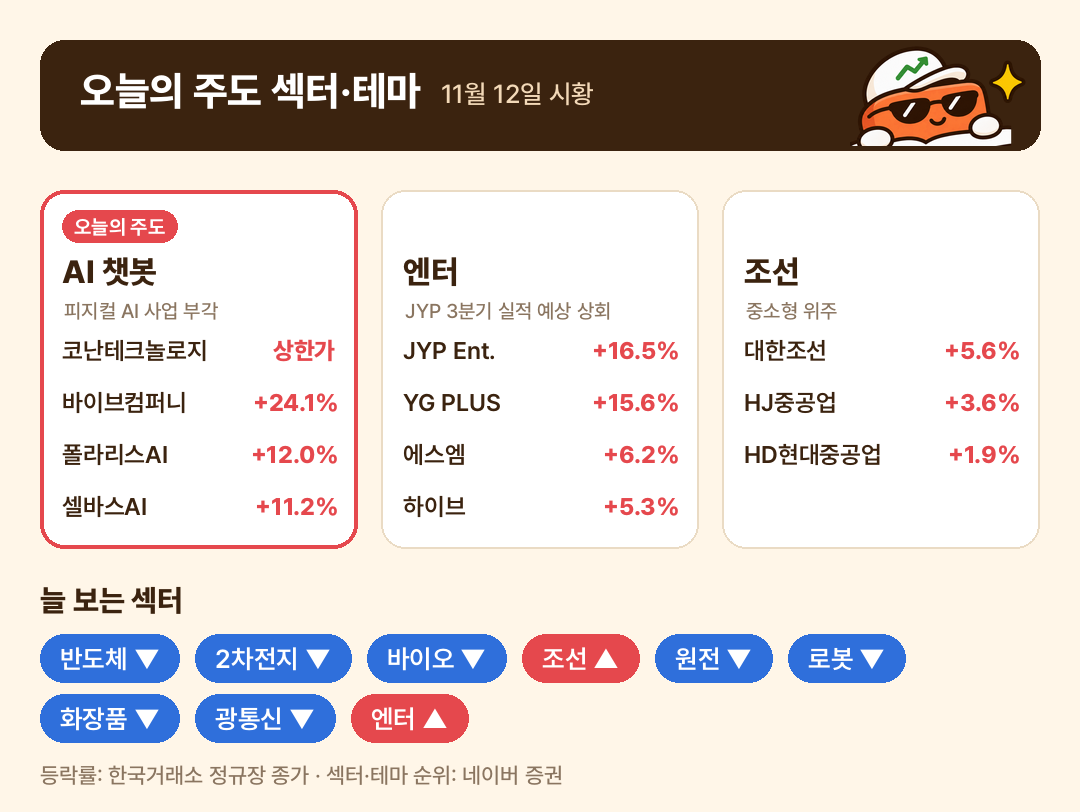
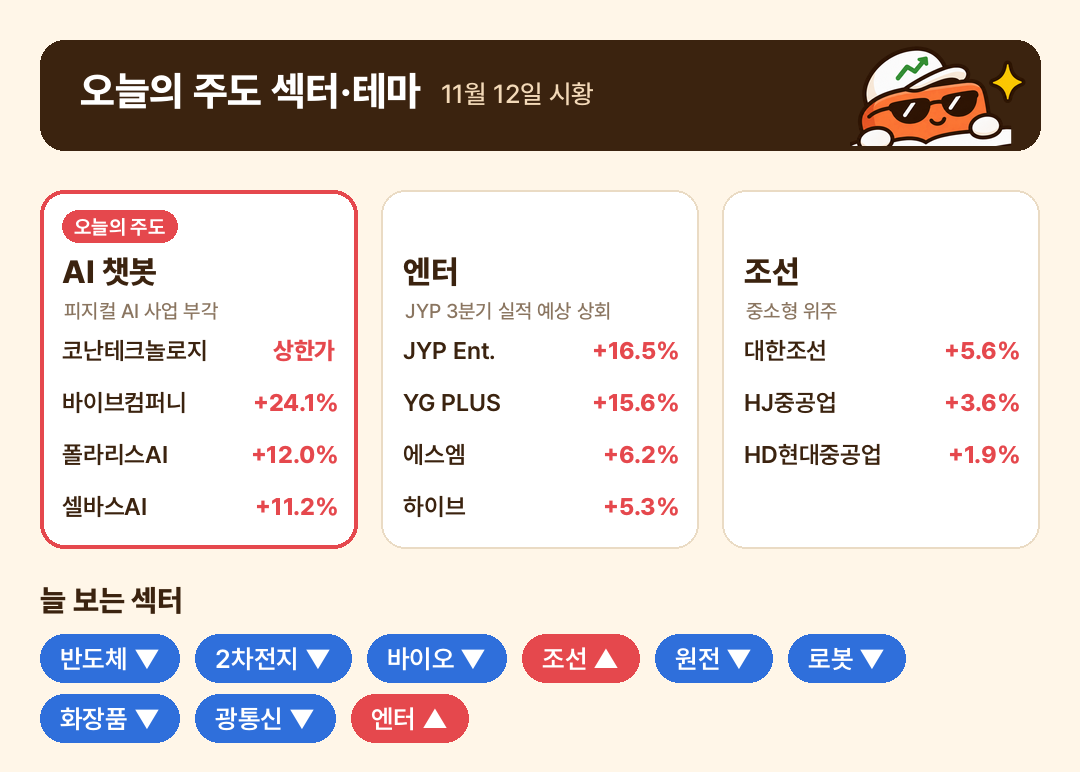
Add daily numbers card and drop source line from sector card

diff --git a/scripts/make_market_cards.py b/scripts/make_market_cards.py
@@ -182,6 +182,55 @@ def trend_card(c, out):
     img.convert("RGB").save(f"{out}/card_trend.png")
 
 
+def numbers_card(c, out):
+    """데일리: 지수 두 칸 + 투자자별 순매수(억 원) + 거래대금."""
+    t = c["today"]
+    H = 1040
+    img = Image.new("RGBA", (W, H), BEIGE); d = ImageDraw.Draw(img)
+    header(d, img, "오늘 숫자", c["name"], W)
+
+    bw, y = (W - 120) // 2, 190
+    for i, ix in enumerate(t["indices"]):
+        x = 40 + i * (bw + 40)
+        rr(d, (x, y, x + bw, y + 230), 24, fill=WHITE, outline=LINE, width=3)
+        d.text((x + 36, y + 28), ix["name"], font=F("ExtraBold", 34), fill=BROWN)
+        d.text((x + 36, y + 78), pct(ix["day"]), font=F("Black", 72), fill=color(ix["day"]))
+        d.text((x + 36, y + 170), f"종가 {ix['close']}", font=F("SemiBold", 28), fill=BROWN)
+
+    # 투자자별 순매수: 행은 개인·외국인·기관, 열은 코스피·코스닥
+    y = 460
+    d.text((40, y), "누가 사고 팔았나 (억 원)", font=F("ExtraBold", 32), fill=BROWN)
+    y += 60
+    rr(d, (40, y, W - 40, y + 300), 24, fill=WHITE, outline=LINE, width=2)
+    cols = [x["name"] for x in t["indices"]]
+    cx = [560, 860]
+    for j, name in enumerate(cols):
+        tw = d.textlength(name, font=F("SemiBold", 26))
+        d.text((cx[j] - tw / 2, y + 22), name, font=F("SemiBold", 26), fill=MUTED)
+    for k, who in enumerate(("개인", "외국인", "기관")):
+        ry = y + 80 + k * 70
+        d.text((80, ry), who, font=F("ExtraBold", 34), fill=BROWN)
+        for j, name in enumerate(cols):
+            v = t["flows"][name][k]
+            label = f"{v:+,}"
+            tw = d.textlength(label, font=F("ExtraBold", 36))
+            d.text((cx[j] - tw / 2, ry - 2), label, font=F("ExtraBold", 36), fill=color(v))
+
+    # 거래대금: 시장별 칩, 전일 대비가 있으면 함께
+    y = 862
+    d.text((40, y), "거래대금", font=F("ExtraBold", 32), fill=BROWN)
+    x, y = 40, y + 60
+    for name, value, change in t["value"]:
+        label = f"{name} {value}" + (f" ({change})" if change else "")
+        tw = d.textlength(label, font=F("SemiBold", 30))
+        if x + tw + 48 > W - 40:
+            x, y = 40, y + 72
+        rr(d, (x, y, x + tw + 48, y + 60), 30, fill=BROWN)
+        d.text((x + 24, y + 12), label, font=F("SemiBold", 30), fill=WHITE)
+        x += tw + 64
+    img.convert("RGB").save(f"{out}/card_numbers.png")
+
+
 def sector_card(c, out, cols=3):
     """데일리: 섹터·테마 칸을 cols열 격자로(칸마다 이름·이유 + 대장 종목 3~4개), 아래에 늘 보는 섹터 칩.
 
@@ -191,7 +240,7 @@ def sector_card(c, out, cols=3):
     nrows = -(-len(c["sectors"]) // cols)
     most = max(len(s["leaders"]) for s in c["sectors"])
     ch = 150 + most * 52
-    H = top + nrows * (ch + gap) + (170 if c.get("watch") else 0) + 70
+    H = top + nrows * (ch + gap) + (170 if c.get("watch") else 0) + 30
     img = Image.new("RGBA", (W, H), BEIGE); d = ImageDraw.Draw(img)
     header(d, img, "오늘의 주도 섹터·테마", c["name"], W)
     small = cols >= 3
@@ -232,7 +281,6 @@ def sector_card(c, out, cols=3):
             rr(d, (x, y, x + tw + 40, y + 48), 24, fill=color(v))
             d.text((x + 20, y + 9), label, font=F("SemiBold", 26), fill=WHITE)
             x += tw + 56
-    d.text((40, H - 50), c["source"], font=F("Medium", 22), fill=MUTED)
     img.convert("RGB").save(f"{out}/card_sector.png")
 
 
@@ -248,7 +296,9 @@ def main(path):
         trend_card(c, out)
     elif "indices" in c:  # 큰 날 시황
         day_card(c, out)
-    if "sectors" in c:  # 데일리 시황
+    if "today" in c:  # 데일리 시황
+        numbers_card(c, out)
+    if "sectors" in c:
         sector_card(c, out, c.get("grid_cols", 3))
     print("saved to", out)
 
